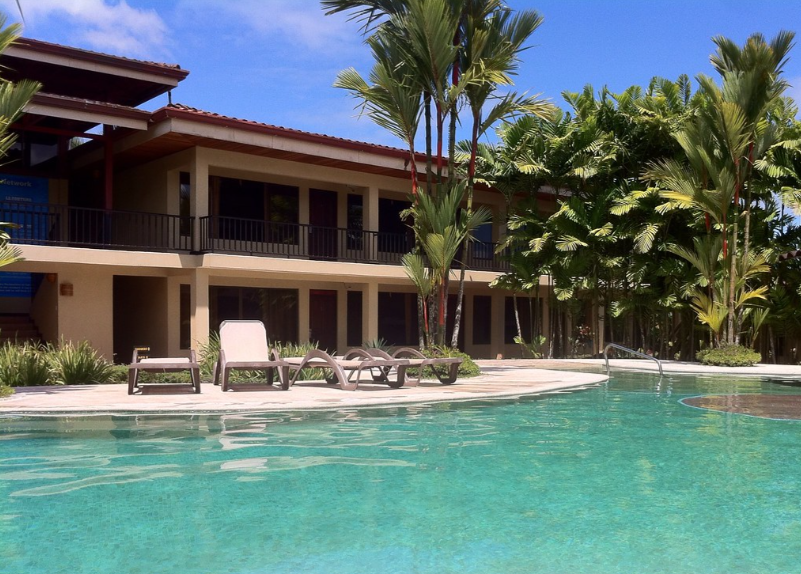
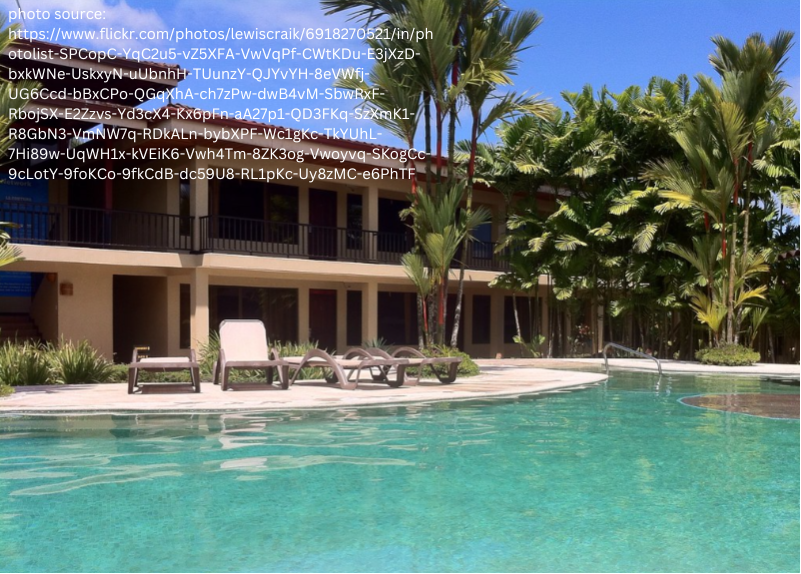
about us cite img
cite images in about us page

diff --git a/aboutUs.php b/aboutUs.php
@@ -84,7 +84,7 @@
 
         <div class="row">
             <div class="gallery">
-                <img src="assets\heritage.jpg" alt="1969" width="600" height="400">
+                <img src="assets\heritage.png" alt="1969" width="600" height="400">
                 <div class="desc">1969</div>
             </div>
 
